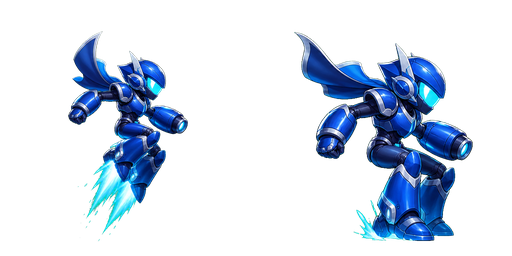
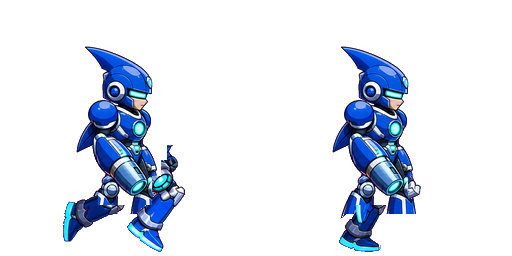
[claude] char: jump/jumpshoot/runshoot を正典(新idle/run)から派生・統一 — 全状態を同一キャラに
残っていた旧モデル由来3枚を新モデルに統一し、キャラの全アニメを完成。
- jump/jumpshoot: 新idleの上半身を流用、脚をジャンプ姿勢に(jumpshootは腕だけ前方)
- runshoot: 新runの脚8コマをそのまま流用し、腕だけ前方バスター固定(走っても振らず前方キープ)
→ idle/run/shoot/charge/jump/jumpshoot/runshoot が全て同一の右向き横プロファイル同一モデルに。
ASSET_VER更新。harness 30/30、montage(run vs runshoot)で脚一致+腕前方ロックを目視確認。

Changed region(s): [[0.5625, 0.125, 0.9375, 1.0], [0.125, 0.125, 0.375, 1.0]]

diff --git a/index.html b/index.html
@@ -167,7 +167,7 @@ function manageBgm(){            // 毎フレーム呼ぶ（状態に応じてBG
 // 各エンティティ＝{fw,fh,scale,ax,ay, anims:{name:{src,frames,fps}}}。
 // anim毎に1枚の横ストリップPNG（コマを横一列）。素材配置後にここを記述する。
 // ★キャッシュ無効化: 素材PNGを差し替えたら ASSET_VER を変えると、ブラウザ/CDNが必ず新素材を取得する。
-const ASSET_VER = '2026060202';
+const ASSET_VER = '2026060203';
 function _av(s){ return s + (s.indexOf('?')<0 ? '?v=' : '&v=') + ASSET_VER; }
 const ASSETS = {
   // 高精細2D(塗り)。scale/ayは見た目に合わせて調整。未生成のanimはidleへ自動フォールバック。
